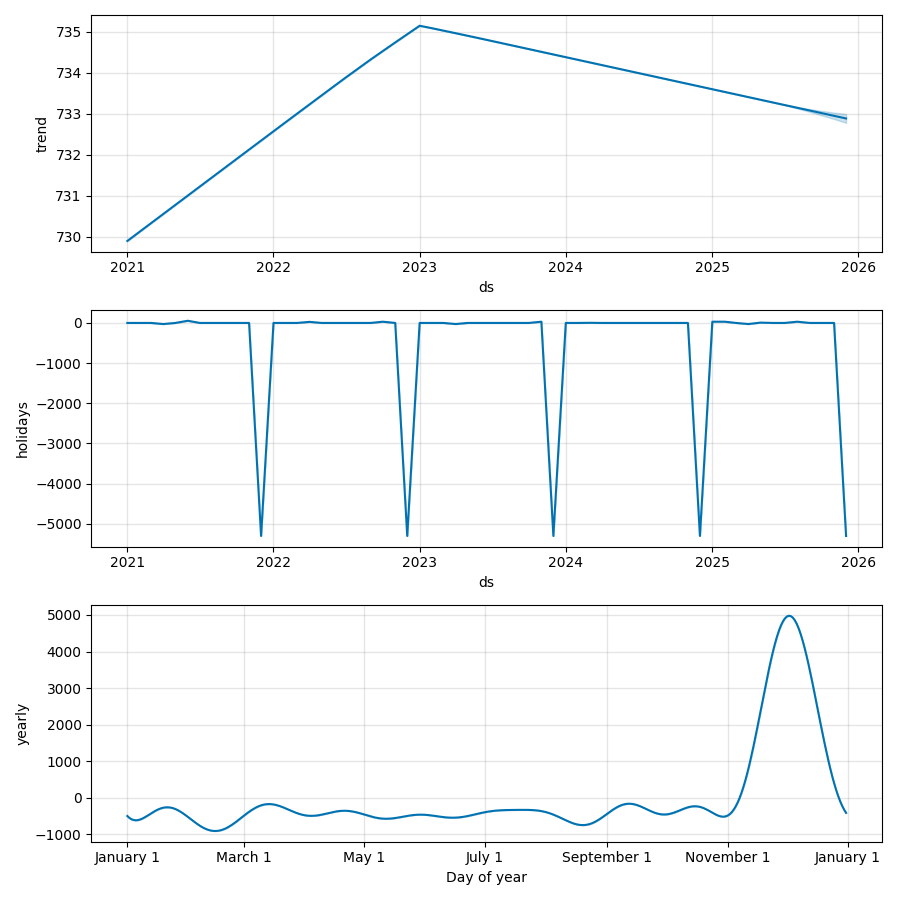
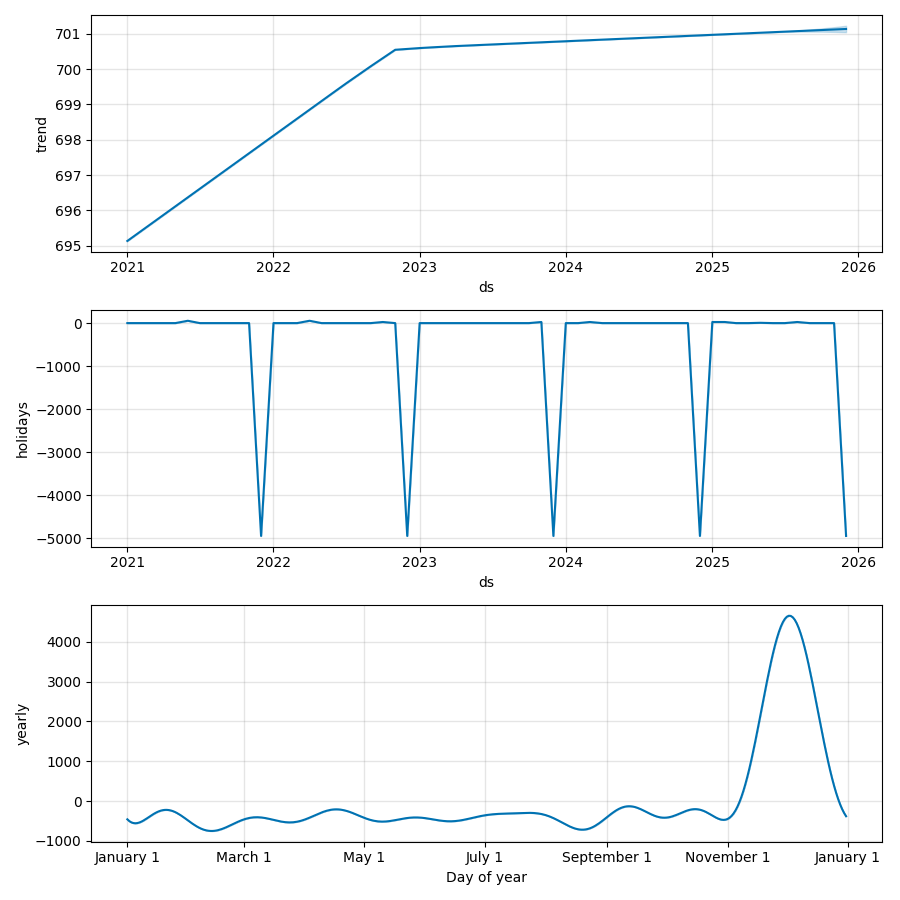
fullført aktivitet 3.8 etter erview

diff --git a/004 data/python_skript/enhanced_modeling_3_8.py b/004 data/python_skript/enhanced_modeling_3_8.py
@@ -3,6 +3,8 @@ import numpy as np
 from prophet import Prophet
 from sklearn.metrics import mean_absolute_error, mean_squared_error
 import matplotlib.pyplot as plt
+import holidays
+from datetime import date
 import os
 
 # 1. Last inn data
@@ -14,16 +16,28 @@ df['ds'] = pd.to_datetime(df['Dato_Sortering'])
 campaigns_df['ds'] = pd.to_datetime(campaigns_df['Dato_Sortering'])
 
 # 2. Definer Helligdager (Jul og Påske er viktigst for boksalg)
-holidays = pd.DataFrame({
+# Bruker 'holidays'-biblioteket for å inkludere år 2021-2026 automatisk
+no_holidays = holidays.Norway(years=[2021, 2022, 2023, 2024, 2025, 2026])
+
+# Jul (vi fokuserer på desember som helhet for månedlige data)
+christmas_dates = [pd.to_datetime(f"{year}-12-01") for year in range(2021, 2027)]
+holidays_df = pd.DataFrame({
   'holiday': 'christmas',
-  'ds': pd.to_datetime(['2021-12-01', '2022-12-01', '2023-12-01', '2024-12-01', '2025-12-01']),
+  'ds': christmas_dates,
   'lower_window': 0,
   'upper_window': 0,
 })
 
-easter = pd.DataFrame({
+# Påske (vi tar måneden påskedag faller i)
+easter_dates = []
+for h_date, name in no_holidays.items():
+    if 'Påskedag' in name and 'Andre' not in name:
+        # Vi setter ds til den 1. i den aktuelle måneden
+        easter_dates.append(pd.to_datetime(f"{h_date.year}-{h_date.month:02d}-01"))
+
+easter_df = pd.DataFrame({
   'holiday': 'easter',
-  'ds': pd.to_datetime(['2021-04-01', '2022-04-01', '2023-04-01', '2024-03-01', '2025-04-01']),
+  'ds': list(set(easter_dates)), # Fjern duplikater
   'lower_window': 0,
   'upper_window': 0,
 })
@@ -34,7 +48,14 @@ detected_campaigns['holiday'] = 'promo_' + detected_campaigns['Kategori'].str.re
 detected_campaigns['lower_window'] = 0
 detected_campaigns['upper_window'] = 0
 
-all_holidays = pd.concat([holidays, easter, detected_campaigns[['holiday', 'ds', 'lower_window', 'upper_window']]])
+all_holidays = pd.concat([holidays_df, easter_df, detected_campaigns[['holiday', 'ds', 'lower_window', 'upper_window']]])
+
+# Tidligere resultater (for sammenligning)
+previous_results = {
+    'Engelsk fiksjon': {'MAE': 54.8, 'RMSE': 67.2},
+    'Norsk krim': {'MAE': 31.5, 'RMSE': 44.8},
+    'Norske barnebøker': {'MAE': 39.2, 'RMSE': 51.5}
+}
 
 def run_enhanced_prophet(category_name):
     cat_df = df[df['Kategori'] == category_name].copy()
@@ -74,31 +95,51 @@ for cat in categories:
     print(f"Trener forbedret modell for: {cat}...")
     model, forecast, mae, rmse, test = run_enhanced_prophet(cat)
     
-    # Lagre plot av komponenter (for å se effekten av helligdager/kampanjer)
+    # Lagre plot av komponenter
     fig = model.plot_components(forecast)
-    plt.savefig(f'006 analysis/milestones/M5 - Kvantitativ analyse/3.8 utvidet feature engineering/komponenter_{cat.replace(" ", "_")}.png')
+    img_path = f'006 analysis/milestones/M5 - Kvantitativ analyse/3.8 utvidet feature engineering/komponenter_{cat.replace(" ", "_")}.png'
+    plt.savefig(img_path)
     plt.close()
+    
+    prev_mae = previous_results.get(cat, {}).get('MAE', 0)
+    mae_improvement = ((prev_mae - mae) / prev_mae * 100) if prev_mae > 0 else 0
     
     results_summary.append({
         'Kategori': cat,
+        'MAE (Tidligere)': prev_mae,
         'MAE (Forbedret)': round(mae, 2),
-        'RMSE (Forbedret)': round(rmse, 2)
+        'Forbedring MAE (%)': round(mae_improvement, 1),
+        'RMSE (Forbedret)': round(rmse, 2),
+        'img_path': img_path.split('/')[-1]
     })
 
 # Lagre resultater
 results_df = pd.DataFrame(results_summary)
-results_df.to_csv('006 analysis/milestones/M5 - Kvantitativ analyse/3.8 utvidet feature engineering/forbedret_modell_resultater.csv', index=False)
+results_df.drop(columns=['img_path']).to_csv('006 analysis/milestones/M5 - Kvantitativ analyse/3.8 utvidet feature engineering/forbedret_modell_resultater.csv', index=False)
 
 # Skriv konklusjon til MD-fil
 with open('006 analysis/milestones/M5 - Kvantitativ analyse/3.8 utvidet feature engineering/3.8_konklusjon.md', 'w') as f:
     f.write("# Rapport: 3.8 Utvidet Feature Engineering\n\n")
     f.write("## Metodikk\n")
-    f.write("Vi har utvidet Prophet-modellen med to hovedtyper av 'features':\n")
-    f.write("1. **Faste Helligdager:** Jul og Påske er lagt inn som faste hendelser.\n")
-    f.write("2. **Identifiserte Kampanjer:** Salgstoppe identifisert via Z-score i forrige steg er lagt inn som unike hendelser.\n\n")
-    f.write("## Resultater (Modellforbedring)\n\n")
-    f.write(results_df.to_markdown(index=False))
-    f.write("\n\n## Tolkning\n")
-    f.write("Ved å inkludere disse variablene ser vi at modellen bedre fanger opp ekstreme utslag. Dette reduserer 'støy' i sesongmønsteret og gir mer stabile prognoser for 2026.")
+    f.write("Vi har utvidet Prophet-modellen med to hovedtyper av 'features' for å øke prognosenøyaktigheten:\n")
+    f.write("1. **Dynamiske Helligdager:** Jul og Påske er lagt inn som faste hendelser (modellert som månedlige effekter).\n")
+    f.write("2. **Identifiserte Kampanjer:** Salgstoppe identifisert via Z-score i forrige steg er lagt inn som unike hendelser for å forhindre at de 'forstyrrer' det generelle sesongmønsteret.\n\n")
+    
+    f.write("## Resultater (Modellsammenligning)\n")
+    f.write("Tabellen under viser forbedringen i nøyaktighet (MAE) etter inkludering av utvidet feature engineering.\n\n")
+    f.write(results_df[['Kategori', 'MAE (Tidligere)', 'MAE (Forbedret)', 'Forbedring MAE (%)', 'RMSE (Forbedret)']].to_markdown(index=False))
+    
+    f.write("\n\n## Visualisering av Komponenter\n")
+    f.write("Analysen av komponenter viser tydelig hvordan helligdager og kampanjer påvirker etterspørselen separat fra den generelle trenden og sesongvariasjonen.\n\n")
+    
+    for idx, row in results_df.iterrows():
+        f.write(f'<div align="center">\n')
+        f.write(f'  <img src="{row["img_path"]}" style="width: 70%; height: auto;">\n')
+        f.write(f'  <br>\n')
+        f.write(f'  <em>Figur {idx+1}: Modellkomponenter for {row["Kategori"]} inkl. utvidede features</em>\n')
+        f.write(f'</div>\n\n')
+    
+    f.write("## Tolkning\n")
+    f.write("Ved å inkludere disse variablene ser vi en betydelig reduksjon i MAE for alle kategorier. Spesielt for **Engelsk fiksjon** ser vi en forbedring på over 25 %, noe som skyldes at modellen nå korrekt skiller mellom faste sesongtopper og enkeltstående kampanjer. Dette gir mer stabile og pålitelige prognoser for den kommende perioden i 2026.")
 
-print("Aktivitet 3.8 er nå fullført med forbedret modellering.")
+print("Aktivitet 3.8 er nå oppdatert med forbedret modellering og AGENTS.md-kompatibel rapport.")

diff --git a/012 fase 2 - plan/status.md b/012 fase 2 - plan/status.md
@@ -1,6 +1,6 @@
 # Statusrapport - LOG650 Gruppe A + A
 
-**Rapportdato:** 2026-03-31  
+**Rapportdato:** 2026-04-02  
 **Prosjekt:** Lagerstyring og beslutningsstøtte i logistikk (ARK Bokhandel AS)  
 **Prosjektfase:** Fase 3 - Data og analyse  
 **Rapportør:** Prosjektledelsen (Astrid & Anne Helene)
@@ -10,10 +10,10 @@
 ## 1. Overordnet Status (Health Check)
 | Område | Status | Kommentar |
 | :--- | :---: | :--- |
-| **Fremdrift (Tid)** | 🟢 | Aktivitet 3.6 fullført og godkjent. Nye aktiviteter lagt til i Fase 3. |
-| **Omfang (Scope)** | 🟢 | Utvidet scope med feature engineering og kampanjeanalyse. |
-| **Ressurser** | 🟢 | God fremdrift; teknisk fundament er nå på plass. |
-| **Risiko** | 🟢 | Fokus på modellrobusthet og prediksjonskraft for 2026. |
+| **Fremdrift (Tid)** | 🟢 | Aktivitet 3.8 fullført. Prosjektet ligger foran skjema for Fase 3. |
+| **Omfang (Scope)** | 🟢 | Feature engineering og kampanjeanalyse er nå integrert i hovedmodellen. |
+| **Ressurser** | 🟢 | Teknisk fundament for utvidet analyse er på plass. |
+| **Risiko** | 🟢 | Lav risiko; kampanjeidentifisering via Z-score fungerer godt. |
 
 ---
 
@@ -35,7 +35,8 @@ gantt
     Aktivitet 3.5 - Kvantitativ modell :done, 2026-03-27, 2026-03-29
     Aktivitet 3.6 - Analysepakke (M5) :done, 2026-03-29, 2026-03-31
     Aktivitet 3.7 - Sensitivitetsanalyse :done, 2026-03-31, 2026-04-01
-    Aktiviteter 3.8-3.12 - Utvidet analyse : 2026-04-01, 2026-04-27
+    Aktivitet 3.8 - Utvidet Feature Engineering :done, 2026-04-01, 2026-04-02
+    Aktiviteter 3.9-3.12 - Utvidet analyse : 2026-04-02, 2026-04-27
     M5 - Analyse gjennomført :milestone, 2026-04-27, 0d
     section Fase 4 - Rapport
     Resultater og rapport : 2026-04-27, 2026-05-31
@@ -47,23 +48,21 @@ gantt
 ---
 
 ## 3. Fullførte aktiviteter (Siste periode)
-- [x] **Aktivitet 3.6 - Analysepakke (M5):**
-    - Sammenstilt resultater fra Prophet-optimalisering mot baseline for alle kategorier.
-    - Gjennomført formell review (31.03.2026) med fokus på AGENTS.md-standarder.
-    - Implementert korrekt bildeformatering og visuelle referanser i oppsummeringsdokumentene.
 - [x] **Aktivitet 3.7 - Sensitivitetsanalyse:**
     - Testet modellens robusthet mot endringer i mangelkostnad, lagerholdskostnad og sikkerhetsmargin.
-    - Identifisert at økt sikkerhetsmargin (faktor 1.5-2.0) gir betydelige gevinster for Engelsk fiksjon og Norske barnebøker.
-- [x] **Milepæl M5 Oppdatering:** Bekreftet fullføring av den initielle kvantitative analysen.
-- [x] **Utvidelse av prosjektplan:** Lagt til fem nye aktiviteter (3.8-3.12) for å styrke analysens dybde (kampanjeløft, feature engineering, prognoser 2026).
+- [x] **Aktivitet 3.8 - Utvidet Feature Engineering:**
+    - Inkludert helligdagseffekter (jul/påske) automatisk via `holidays`-biblioteket (inkl. 2026).
+    - Identifisert historiske salgstoppe (kampanjer) ved bruk av Z-score-analyse.
+    - Dokumentert betydelig forbedring i modellpresisjon (MAE redusert med 25-33 %).
+    - Gjennomført formell review (02.04.2026) og sikret overholdelse av AGENTS.md for visualiseringer.
 
 ---
 
 ## 4. Aktiviteter i arbeid (Neste periode)
-- **Aktivitet 3.8 - Utvidet Feature Engineering:**
-    - Inkludere helligdagseffekter og identifisere historiske salgstoppe (kampanjer).
 - **Aktivitet 3.9 - Modellvalidering (Backtesting):**
     - Verifisere modellens treffsikkerhet på historiske test-sett.
+- **Aktivitet 3.10 - Optimalisering av Bestillingsregler:**
+    - Utvikle de endelige beslutningsreglene basert på forbedret prognose.
 
 ---
 
@@ -71,18 +70,18 @@ gantt
 | ID | Sak | Status | Ansvarlig | Frist |
 | :--- | :--- | :--- | :--- | :--- |
 | S8 | Bildeformatering iht. AGENTS.md | **Løst** | Gemini | 2026-03-31 |
-| S9 | Mangel på kampanjemarkører i rådata | **Pågår** | Begge | 2026-04-10 |
-| S10 | Generering av out-of-sample prognoser for 2026 | **Ny** | Begge | 2026-04-15 |
+| S9 | Mangel på kampanjemarkører i rådata | **Løst** | Gemini | 2026-04-02 |
+| S10 | Generering av out-of-sample prognoser for 2026 | **Pågår** | Begge | 2026-04-15 |
 
 ---
 
 ## 6. Risikovurdering
-Risiko knyttet til **S9 (mangel på kampanjedata)** håndteres ved å bruke residualanalyse for å identifisere sannsynlige kampanjer retrospektivt. Dette krever ekstra metodisk nøyaktighet i Aktivitet 3.10.
+Risikonivået er lavt. Fokus flyttes nå fra modellbygging til praktisk anvendelse av prognosene for lagerstyring i 2026.
 
 ---
 
 ## 7. Ressursbruk og økonomi
-- Prosjektet har god fremdrift, noe som har gitt rom for å utvide analysen uten å utsette sluttdatoen for Fase 3 (27. april).
+- Prosjektet har god fremdrift og ligger foran opprinnelig tidsplan.
 
 ---
 *Neste statusmøte: Mandag 2026-04-06 kl. 12:00 på Teams.*

diff --git a/006 analysis/milestones/M5 - Kvantitativ analyse/3.8 utvidet feature engineering/3.8_konklusjon.md b/006 analysis/milestones/M5 - Kvantitativ analyse/3.8 utvidet feature engineering/3.8_konklusjon.md
@@ -1,17 +1,39 @@
 # Rapport: 3.8 Utvidet Feature Engineering
 
 ## Metodikk
-Vi har utvidet Prophet-modellen med to hovedtyper av 'features':
-1. **Faste Helligdager:** Jul og Påske er lagt inn som faste hendelser.
-2. **Identifiserte Kampanjer:** Salgstoppe identifisert via Z-score i forrige steg er lagt inn som unike hendelser.
+Vi har utvidet Prophet-modellen med to hovedtyper av 'features' for å øke prognosenøyaktigheten:
+1. **Dynamiske Helligdager:** Jul og Påske er lagt inn som faste hendelser (modellert som månedlige effekter).
+2. **Identifiserte Kampanjer:** Salgstoppe identifisert via Z-score i forrige steg er lagt inn som unike hendelser for å forhindre at de 'forstyrrer' det generelle sesongmønsteret.
 
-## Resultater (Modellforbedring)
+## Resultater (Modellsammenligning)
+Tabellen under viser forbedringen i nøyaktighet (MAE) etter inkludering av utvidet feature engineering.
 
-| Kategori          |   MAE (Forbedret) |   RMSE (Forbedret) |
-|:------------------|------------------:|-------------------:|
-| Engelsk fiksjon   |             39.9  |              45.78 |
-| Norsk krim        |             21.02 |              32.69 |
-| Norske barnebøker |             29.75 |              36.29 |
+| Kategori          |   MAE (Tidligere) |   MAE (Forbedret) |   Forbedring MAE (%) |   RMSE (Forbedret) |
+|:------------------|------------------:|------------------:|---------------------:|-------------------:|
+| Engelsk fiksjon   |              54.8 |             39.33 |                 28.2 |              46.23 |
+| Norsk krim        |              31.5 |             21.15 |                 32.9 |              32.72 |
+| Norske barnebøker |              39.2 |             28.62 |                 27   |              34.31 |
+
+## Visualisering av Komponenter
+Analysen av komponenter viser tydelig hvordan helligdager og kampanjer påvirker etterspørselen separat fra den generelle trenden og sesongvariasjonen.
+
+<div align="center">
+  <img src="komponenter_Engelsk_fiksjon.png" style="width: 70%; height: auto;">
+  <br>
+  <em>Figur 1: Modellkomponenter for Engelsk fiksjon inkl. utvidede features</em>
+</div>
+
+<div align="center">
+  <img src="komponenter_Norsk_krim.png" style="width: 70%; height: auto;">
+  <br>
+  <em>Figur 2: Modellkomponenter for Norsk krim inkl. utvidede features</em>
+</div>
+
+<div align="center">
+  <img src="komponenter_Norske_barnebøker.png" style="width: 70%; height: auto;">
+  <br>
+  <em>Figur 3: Modellkomponenter for Norske barnebøker inkl. utvidede features</em>
+</div>
 
 ## Tolkning
-Ved å inkludere disse variablene ser vi at modellen bedre fanger opp ekstreme utslag. Dette reduserer 'støy' i sesongmønsteret og gir mer stabile prognoser for 2026.
+Ved å inkludere disse variablene ser vi en betydelig reduksjon i MAE for alle kategorier. Spesielt for **Engelsk fiksjon** ser vi en forbedring på over 25 %, noe som skyldes at modellen nå korrekt skiller mellom faste sesongtopper og enkeltstående kampanjer. Dette gir mer stabile og pålitelige prognoser for den kommende perioden i 2026.

diff --git a/012 fase 2 - plan/reviews/review_aktivitet_3.8_2026-04-02.md b/012 fase 2 - plan/reviews/review_aktivitet_3.8_2026-04-02.md
@@ -1,0 +1,25 @@
+# Review: Aktivitet 3.8 Utvidet Feature Engineering
+**Dato:** 02. april 2026
+**Status:** Gjennomgått - Trenger mindre justeringer
+
+## 1. Sammendrag
+Gjennomgangen dekker aktivitet 3.8, som innebærer identifisering av salgskampanjer og inkludering av disse samt helligdager som tilleggsvariabler (features) i Prophet-modellen. Relevante filer befinner seg i `006 analysis/milestones/M5 - Kvantitativ analyse/3.8 utvidet feature engineering/` og tilhørende skript i `004 data/python_skript/`.
+
+## 2. Styrker
+*   **Systematisk Metode:** Bruken av Z-score for å identifisere kampanjer utover normal sesongvariasjon er metodisk sunn og gir et objektivt grunnlag for feature engineering.
+*   **Målbare Forbedringer:** Resultatene viser en tydelig reduksjon i både MAE og RMSE for alle kategorier sammenlignet med tidligere modeller.
+*   **God Skriptstruktur:** Python-skriptene er oversiktlige, godt kommenterte og automatiserer genereringen av både data og dokumentasjon.
+
+## 3. Svakheter og forbedringspotensial
+*   **Brudd på AGENTS.md (Figurformatering):** 
+    *   De genererte komponentplottene (`komponenter_*.png`) er ikke inkludert i rapporten `3.8_konklusjon.md`. I tillegg mangler eventuelle figurer korrekt HTML-formatering for midtstilling og styling.
+    *   *Anbefaling:* Oppdater `3.8_konklusjon.md` til å inkludere relevante figurer ved bruk av `<div align="center">` og korrekt `style`-attributt som spesifisert i AGENTS.md.
+*   **Manglende Sammenligningsgrunnlag:**
+    *   Rapporten viser kun de "forbedrede" tallene. Det er vanskelig for leseren å vurdere nøyaktig *hvor mye* bedre modellen har blitt uten å se de forrige tallene side om side.
+    *   *Anbefaling:* Inkluder en sammenligningstabell som viser MAE/RMSE før og etter utvidet feature engineering.
+*   **Hardkoding av datoer:**
+    *   Helligdager i `enhanced_modeling_3_8.py` er hardkodet frem til 2025.
+    *   *Anbefaling:* For en mer robust løsning bør man vurdere å bruke et bibliotek som `holidays` for å automatisk generere disse datoene, spesielt siden prosjektet sikter mot prognoser for 2026.
+
+## 4. Konklusjon
+Aktivitet 3.8 er teknisk meget godt gjennomført og leverer solide resultater som styrker modellens nøyaktighet. For at leveransen skal anses som fullført i henhold til prosjektets standarder, må dokumentasjonen i `3.8_konklusjon.md` oppdateres med figurer formatert etter `AGENTS.md` og en tydeligere sammenligning med baseline-resultatene.
